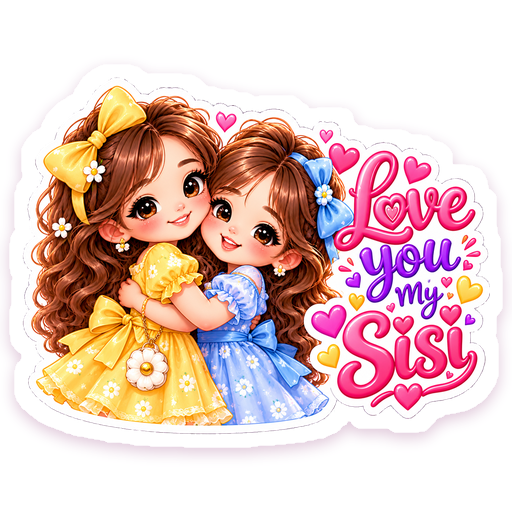
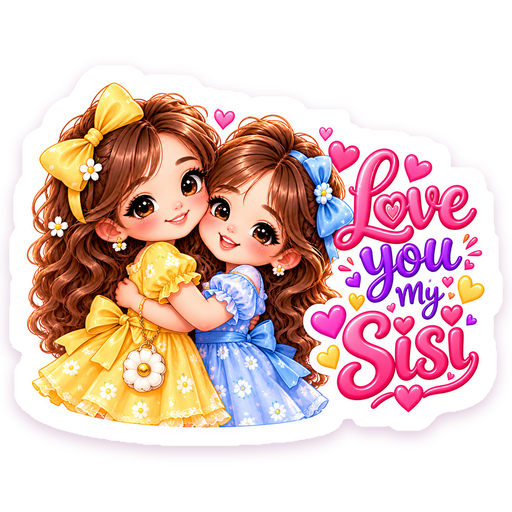
Emotions: add the owner's 10 heart stickers (30 total, WhatsApp max)
- Remove 9 generated emoji faces the stars and hearts already cover
  (Happy, Heart Eyes, LOL, Sad, Sobbing, Wink, So Funny, Relieved, Cool).
- Painted-checkerboard cleaner now also removes the near-white checker squares
  and ignores black ink, so this sheet cuts cleanly; Love you my Sisi is rebuilt.

Claude-Session: https://claude.ai/code/session_01HFDEQ91mwXQ77VBhcg7bMb

Changed region(s): [[0.0312, 0.1562, 0.9688, 0.875], [0.6875, 0.5938, 0.7188, 0.625]]

diff --git a/Tools/generate_assets.py b/Tools/generate_assets.py
@@ -307,18 +307,29 @@ PACKS = [
             png("Emotions/sheet-2.png", "🌙 😴", "Good Night", "good night night sleep moon", count=6, index=4,
                 label="Good Night"),
             png("Emotions/sheet-2.png", "😄 ✌", "Be Happy", "be happy smile", count=6, index=5, label="Be Happy"),
-            emoji("Smiling face with smiling eyes", "😊", "Happy", "happy smile"),
-            emoji("Smiling face with heart-eyes", "😍", "Heart Eyes", "love heart eyes crush"),
-            emoji("Face with tears of joy", "😂", "LOL", "lol laugh funny haha"),
-            emoji("Crying face", "😢", "Sad", "sad cry tear"),
-            emoji("Loudly crying face", "😭", "Sobbing", "cry sob sad"),
+            png("Emotions/sheet-3.png", "😊 💕", "Happy Heart", "happy smile heart joy", count=10, index=0,
+                description="A pink heart smiling happily among little hearts"),
+            png("Emotions/sheet-3.png", "😎 ✨", "Cool Heart", "cool sunglasses heart", count=10, index=1,
+                description="A purple heart wearing sunglasses"),
+            png("Emotions/sheet-3.png", "😘 ❤", "Kissing Heart", "kiss kissing heart love", count=10, index=2,
+                description="A yellow heart winking and blowing a kiss"),
+            png("Emotions/sheet-3.png", "😂 💦", "Laughing Heart", "laughing lol haha heart", count=10, index=3,
+                description="A blue heart laughing so hard it cries"),
+            png("Emotions/sheet-3.png", "😌 💕", "Calm Heart", "calm relieved peaceful heart", count=10, index=4,
+                description="A green heart smiling calmly with closed eyes"),
+            png("Emotions/sheet-3.png", "😜 ⭐", "Silly Heart", "silly tongue wink playful heart", count=10, index=5,
+                description="An orange heart winking with its tongue out"),
+            png("Emotions/sheet-3.png", "😍 💕", "Heart Eyes Heart", "heart eyes love crush heart", count=10, index=6,
+                description="A pink heart with heart eyes"),
+            png("Emotions/sheet-3.png", "😴 ☁", "Sleepy Heart", "sleepy sleep cloud heart", count=10, index=7,
+                description="A blue heart sleeping on a cloud"),
+            png("Emotions/sheet-3.png", "🥺 💧", "Teary Heart", "teary sad please heart", count=10, index=8,
+                description="A purple heart with teary pleading eyes"),
+            png("Emotions/sheet-3.png", "🎧 🎵", "Music Heart", "music headphones chill heart", count=10, index=9,
+                description="A pink heart listening to music with headphones"),
             emoji("Pleading face", "🥺", "Pretty Please", "please puppy eyes"),
             emoji("Face holding back tears", "🥹", "Touched", "touched emotional"),
-            emoji("Winking face", "😉", "Wink", "wink flirt"),
-            emoji("Grinning squinting face", "😆", "So Funny", "laugh funny"),
-            emoji("Relieved face", "😌", "Relieved", "calm relieved peaceful"),
             emoji("Smiling face with halo", "😇", "Angel", "angel innocent"),
-            emoji("Smiling face with sunglasses", "😎", "Cool", "cool sunglasses"),
             text("Sorry", "🥺", "Sorry", "sorry apology"),
         ],
     },
@@ -564,15 +575,25 @@ def cut_sheet(file: str) -> list[Image.Image]:
 
 
 def painted_checkerboard_alpha(rgb: np.ndarray) -> np.ndarray:
-    """Some exports paint the grey "transparency" checkerboard into the picture. Grey pixels
-    connected to the image edge are that background; the sticker's white border stops it."""
+    """Some exports paint the grey "transparency" checkerboard into the picture. Its grey
+    squares, and the light squares between them, form a background connected to the image
+    edge; the sticker's colours stop it. The sticker's own white border is rebuilt by die_cut."""
     rgb = rgb.astype(int)
     low, high = rgb.min(2), rgb.max(2)
-    grey = (high - low < 14) & (high < 243)
-    labels, _ = ndimage.label(grey)
+    neutral = high - low < 14
+    grey = neutral & (high >= 190) & (high < 243)               # checker grey, not black ink
+    # Checker square size: typical run length of grey/light along the top rows.
+    runs = []
+    for row in grey[:8]:
+        edges = np.flatnonzero(np.diff(row.astype(int))) + 1
+        runs += list(np.diff(edges))
+    square = int(np.median(runs)) if runs else 8
+    light = neutral & ~grey & ndimage.binary_dilation(grey, iterations=max(2, square))
+    labels, _ = ndimage.label(grey | light)
     edge = np.unique(np.concatenate([labels[0], labels[-1], labels[:, 0], labels[:, -1]]))
     background = np.isin(labels, edge[edge > 0])
     sticker = ndimage.binary_fill_holes(~background)
+    sticker = ndimage.binary_opening(sticker, iterations=2)     # drop leftover checker crumbs
     return np.where(sticker, 255, 0).astype(np.uint8)
 
 

diff --git a/README.md b/README.md
@@ -1,7 +1,7 @@
 # Stickers 💖
 
 **Express more with cute stickers.** An iOS app (SwiftUI) with 6 sticker categories and
-135 stickers. You can copy, paste, drag or share any sticker into WhatsApp, iMessage
+136 stickers. You can copy, paste, drag or share any sticker into WhatsApp, iMessage
 and other chat apps. The project also includes an iMessage sticker app and an
 "Add to WhatsApp" import for each category.
 
@@ -11,7 +11,7 @@ and other chat apps. The project also includes an iMessage sticker app and an
 | Friendship | 21 (your own artwork) |
 | Sisters | 21 (your own artwork) |
 | Family | 28 (18 of them your own artwork) |
-| Emotions | 29 (16 of them your own artwork) |
+| Emotions | 30 (26 of them your own artwork) |
 | Self-Love & Self-Care | 16 |
 
 ---
@@ -125,4 +125,4 @@ WhatsApp warns that Xcode's PNG optimization can break its size limits.
   - Your bundle ID must not contain `WA.WAStickersThirdParty`.
 - **Artwork credits** are in [THIRD_PARTY_NOTICES.md](THIRD_PARTY_NOTICES.md):
   Microsoft Fluent Emoji (MIT) and the Fredoka font (OFL). The character
-  pictures, the 20 Love, 21 Friendship, 21 Sisters, 18 Family and 16 Emotions stickers come from your own designs.
+  pictures, the 20 Love, 21 Friendship, 21 Sisters, 18 Family and 26 Emotions stickers come from your own designs.

diff --git a/THIRD_PARTY_NOTICES.md b/THIRD_PARTY_NOTICES.md
@@ -1,7 +1,7 @@
 # Third-party notices
 
 The 20 Love stickers (`Design/Love-sheet-1.png`, `Design/Love-sheet-2.png`), the 21 Friendship
-stickers (`Design/Friendship/`), the 21 Sisters stickers (`Design/Sisters/`), the 18 Family stickers (`Design/Family/`), the 16 Emotions stickers (`Design/Emotions/`) and the
+stickers (`Design/Friendship/`), the 21 Sisters stickers (`Design/Sisters/`), the 18 Family stickers (`Design/Family/`), the 26 Emotions stickers (`Design/Emotions/`) and the
 landing page and icon artwork were supplied by the app owner.
 
 ## Fluent Emoji (Microsoft)
